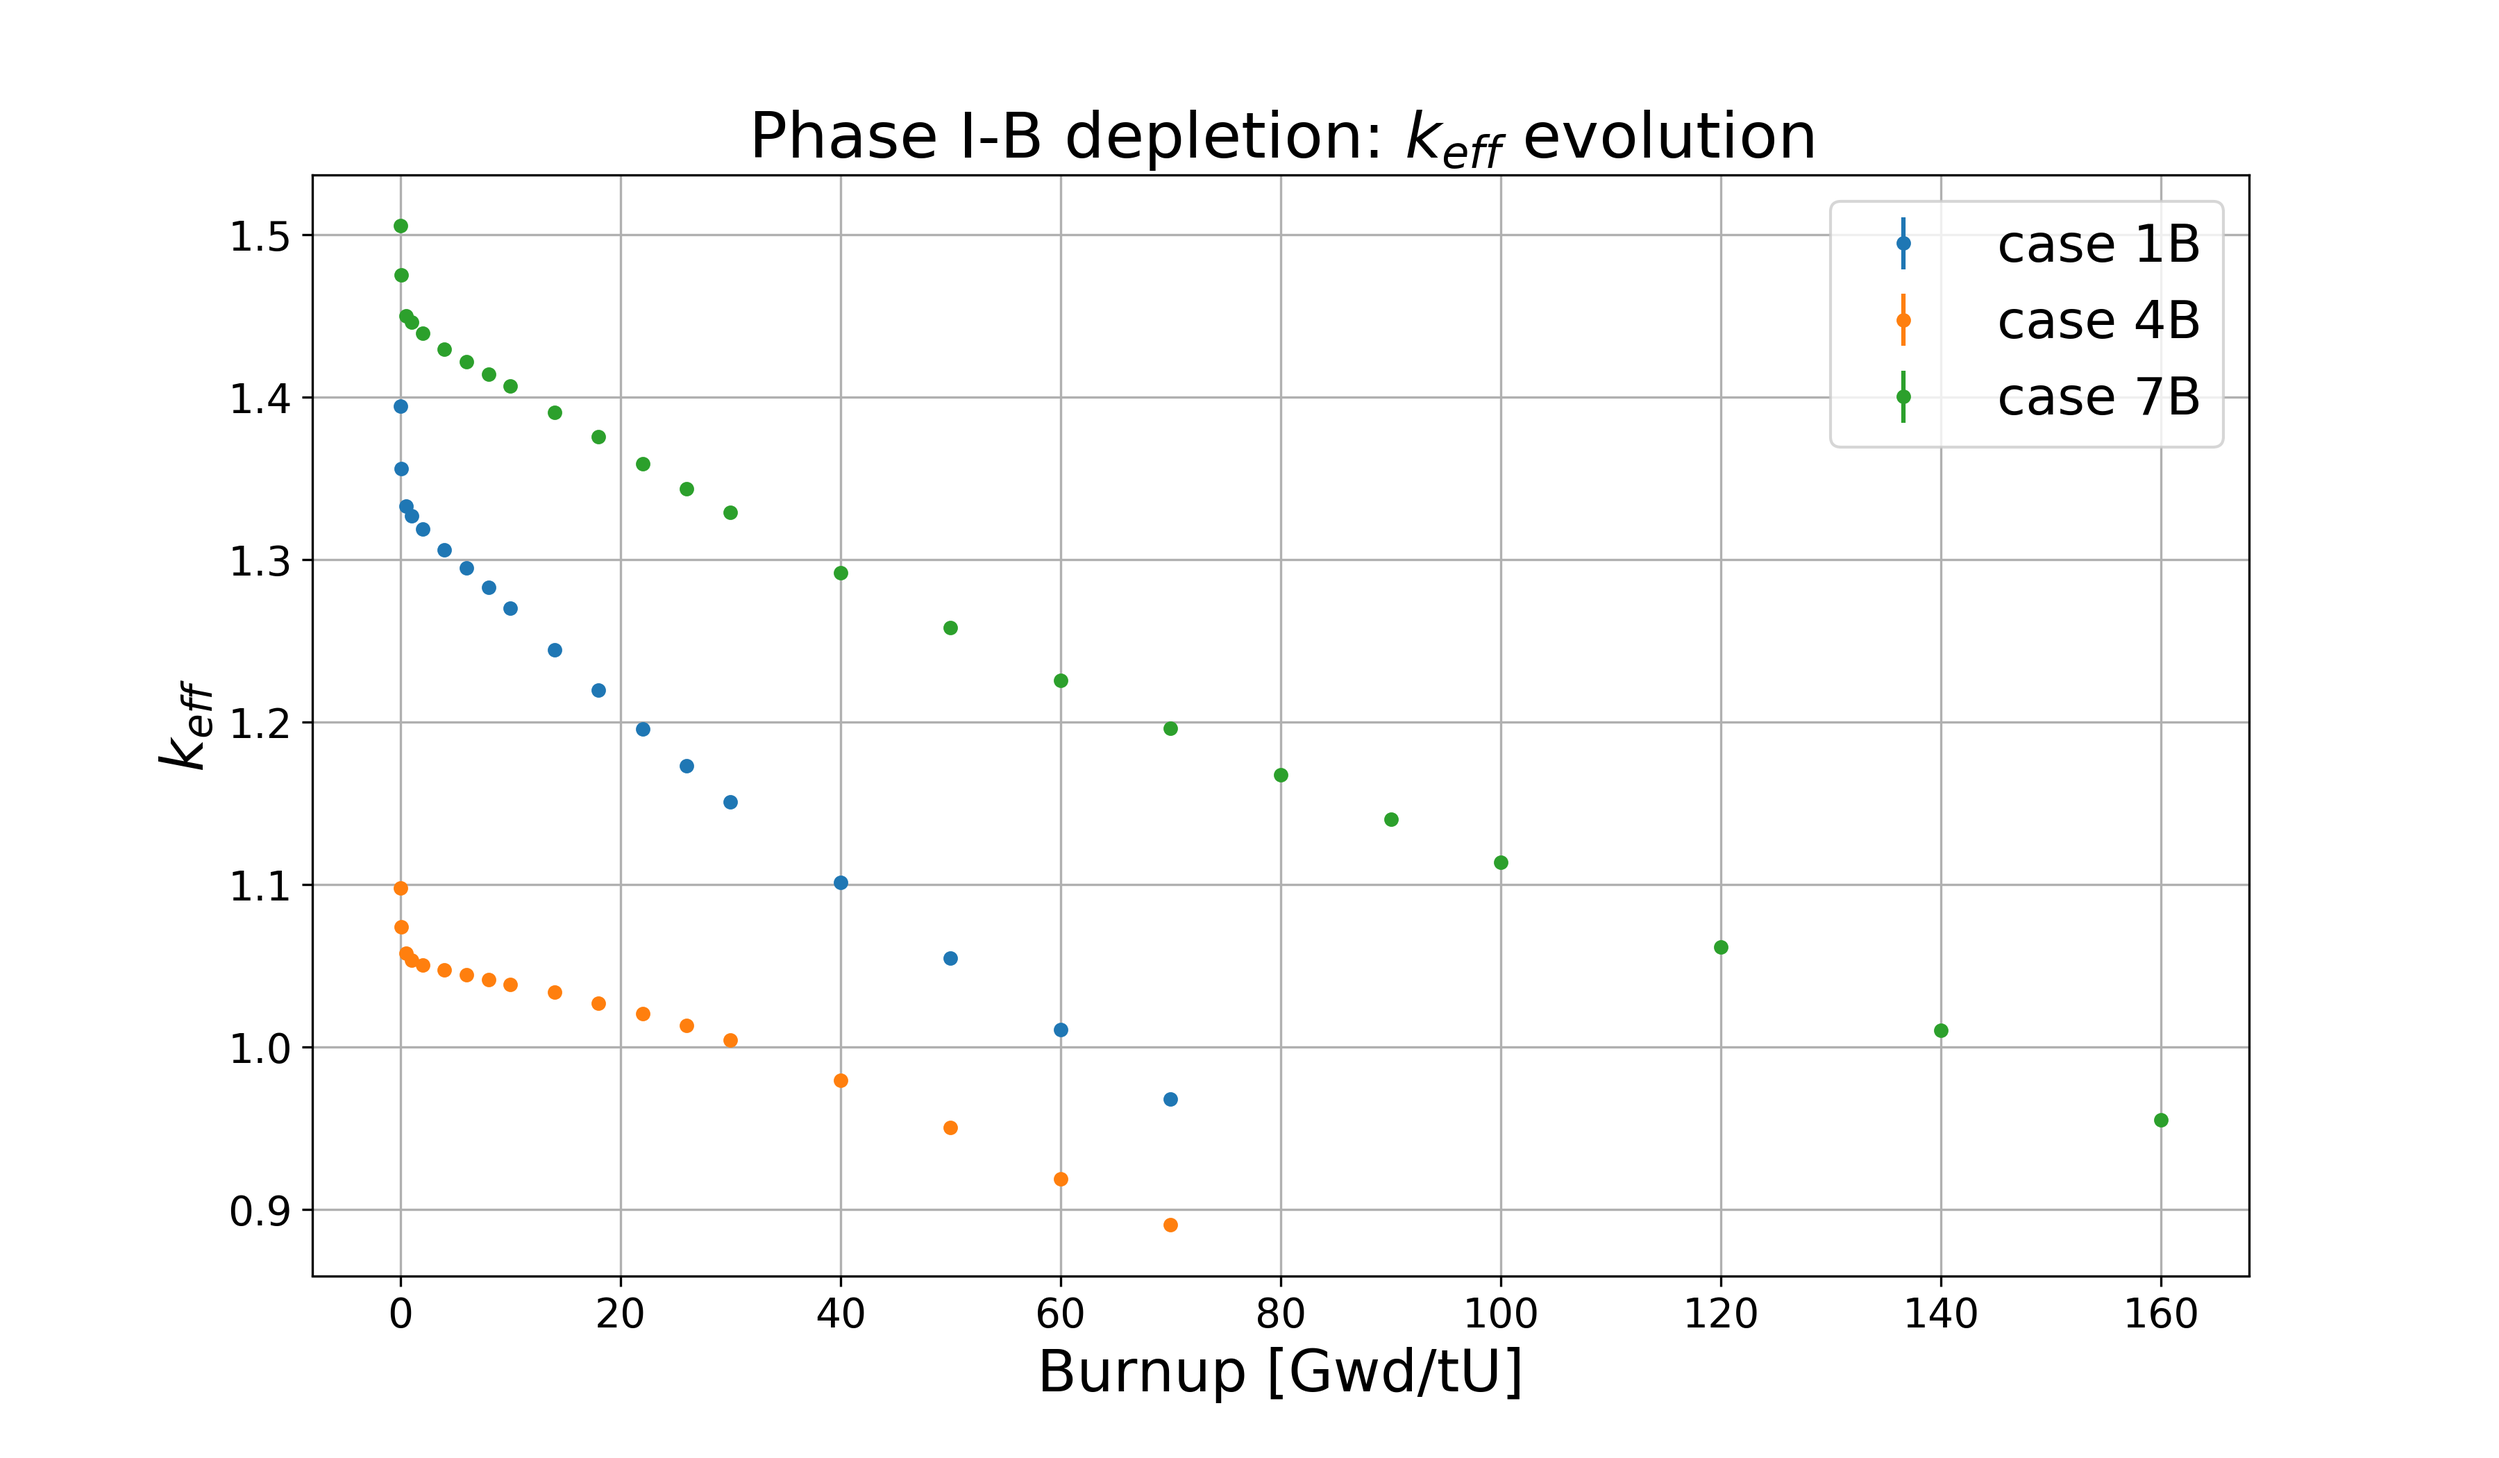
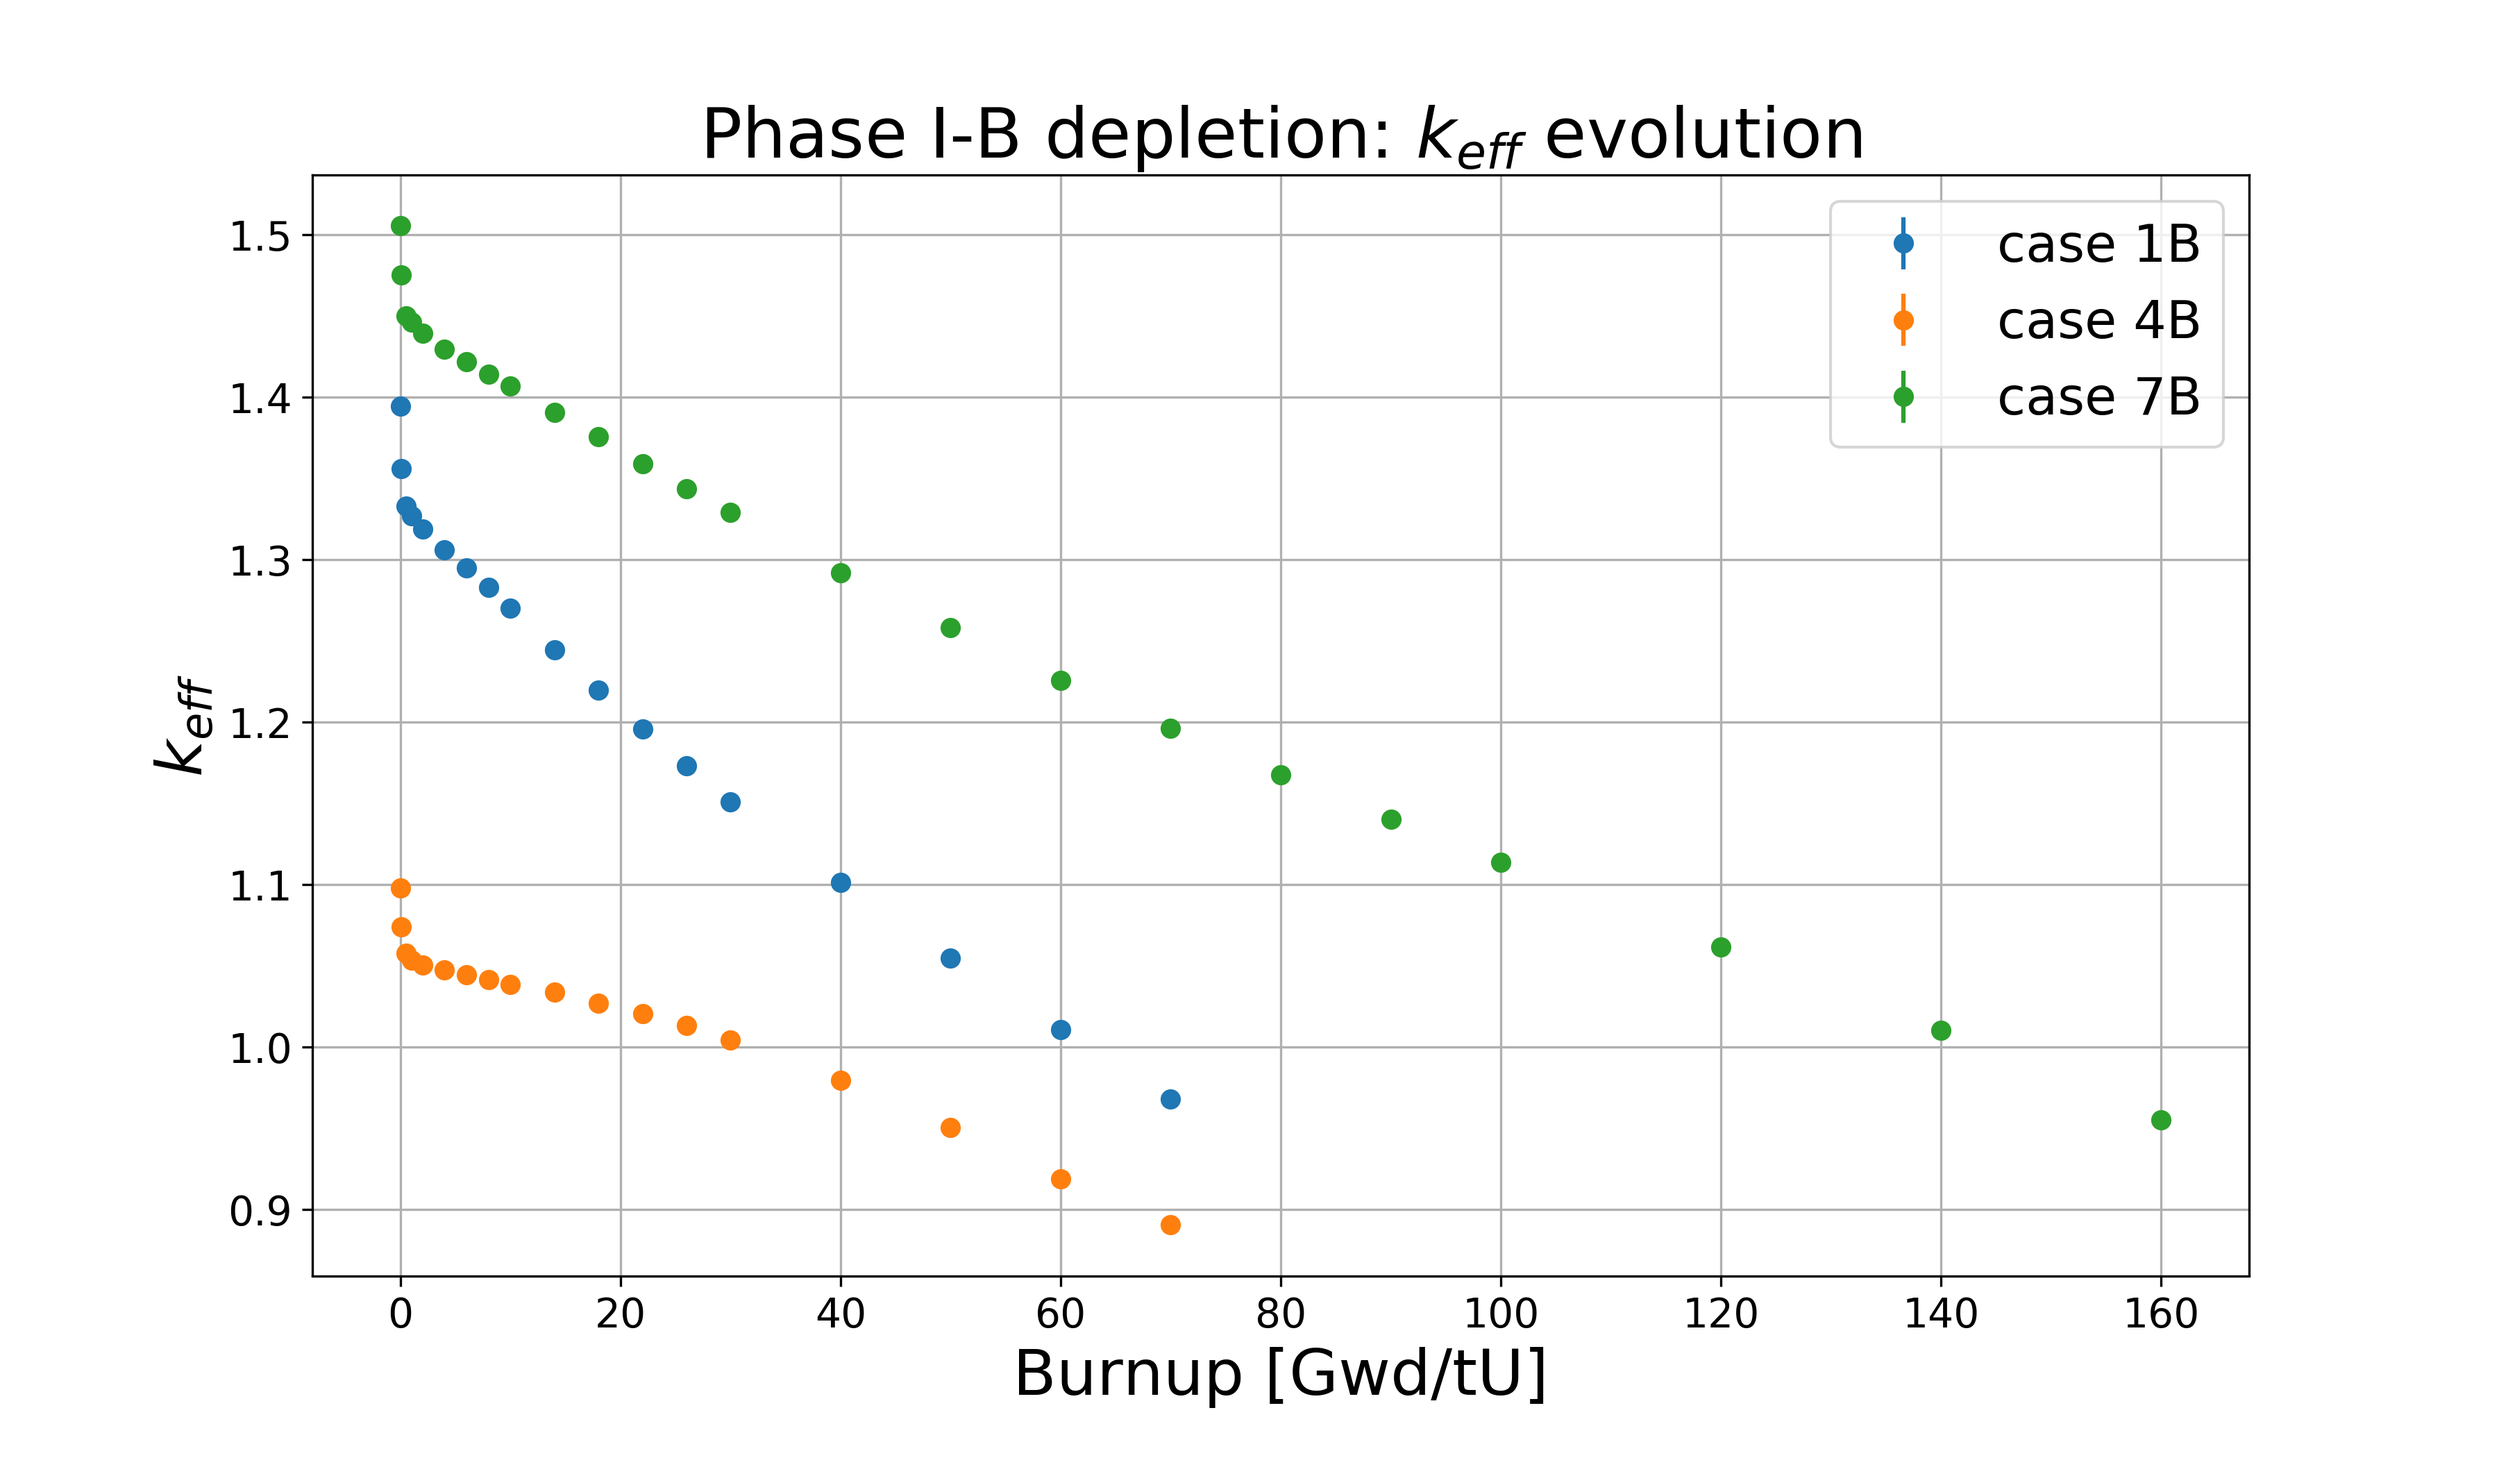
updates

diff --git a/docs/fhr-benchmark.tex b/docs/fhr-benchmark.tex
@@ -390,15 +390,17 @@ Figure \ref{fig:phase1a-c} shows the fission source distribution by
 one-fifth fuel stripe for Cases 1A and 3A. 
 \begin{figure}[]
     \centering
-    \includegraphics[width=0.49\linewidth]{p1a_c1a_c.png} 
-    \includegraphics[width=0.48\linewidth]{p1a_c3a_c.png} 
-    \caption{Fission Source Distribution per one-fifth fuel stripe for \acrlong{FHR} 
-    Benchmark's Phase I-A Case 1A (left) and Case 3A (right).}
+    \includegraphics[width=0.52\linewidth]{p1a_c1a_c.png} 
+    \includegraphics[width=0.52\linewidth]{p1a_c3a_c.png} 
+    \includegraphics[width=0.52\linewidth]{p1a_6a_c.png} 
+    \caption{Fission Source Distribution per one-fifth fuel stripe for 
+    \acrlong{FHR} Benchmark's Phase I-A Case 1A (top), Case 3A (middle), 
+    and Case 6A (bottom).}
     \label{fig:phase1a-c}
 \end{figure}
 Case 4AR has a similar fission source distribution as Case 3A since both 
 cases have control rod insertion. 
-All other cases have similar fission source distributions to Case 1A. 
+All other cases have similar fission source distribution shape to Case 1A. 
 For Case 1A, intuitively, I would assume that the highest fission source would 
 occur in the center of the diamond fuel segment; however, the opposite is true. 
 Power peaking occurs on exterior stripes and is minimum on the interior stripes.
@@ -409,10 +411,12 @@ The lowest power is found in the interiors of the lattice tri-sections.
 This fission source distribution is caused by diminished resonance escape 
 probability in the interior due to the higher relative fuel-to-carbon volume 
 ratio. 
-Cases 6A and 7A demonstrate a further diminished fission source in the interior 
-stripes due to the higher fuel-to-carbon ratio.
 For Case 3A with an inserted control rod, the fission source is lower in 
 the one-fifth stripes closer to the control rod.  
+Cases 6A and 7A demonstrate a further diminished fission source in the interior 
+stripes due to the higher fuel-to-carbon ratio.
+This is seen in Figure \ref{fig:phase1a-c} in which case 1A and 6A have similar 
+fission distribution shapes, but case 6A's has a bigger fission source value range. 
 
 Figure \ref{fig:phase1a-d} shows the average neutron flux in the fuel assembly in 
 three coarse energy groups. 
@@ -429,9 +433,9 @@ Figure \ref{fig:phase1a-e} shows the neutron flux distribution in a 100 $\times$
 100 mesh for Cases 1A, 3A, and 6A for three coarse energy groups. 
 \begin{figure}[]
     \centering
-    \includegraphics[width=0.9\linewidth]{phase1a-e-c1a.png} 
-    \includegraphics[width=0.9\linewidth]{phase1a-e-c3a.png} 
-    \includegraphics[width=0.9\linewidth]{phase1a-e-c6a.png} 
+    \includegraphics[width=\linewidth]{phase1a-e-c1a.png} 
+    \includegraphics[width=\linewidth]{phase1a-e-c3a.png} 
+    \includegraphics[width=\linewidth]{phase1a-e-c6a.png} 
     \caption{\acrlong{FHR} Benchmark's Neutron flux distribution in 100 
     $\times$ 100 mesh for three coarse energy groups: Case 1A (above), Case 3A 
     (middle), Case 6A (below). Energy group 1: $E > 0.1$ MeV, Energy group 2: 
@@ -451,8 +455,8 @@ fast-flux peaking and thermal flux dip in the fuel stripe area.
 Figure \ref{fig:phase1a-f} shows the neutron spectrum for Cases 1A and 6A. 
 \begin{figure}[]
     \centering
-    \includegraphics[width=0.49\linewidth]{p1a_c1a_f.png} 
-    \includegraphics[width=0.49\linewidth]{p1a_c6a_f.png} 
+    \includegraphics[width=0.75\linewidth]{p1a_c1a_f.png} 
+    \includegraphics[width=0.75\linewidth]{p1a_c6a_f.png} 
     \caption{Neutron spectrum for \acrlong{FHR} Benchmark's Phase I-A Case 1A 
     (left) and Case 6A (right).}
     \label{fig:phase1a-f}
@@ -460,7 +464,7 @@ Figure \ref{fig:phase1a-f} shows the neutron spectrum for Cases 1A and 6A.
 Case 7A has a similar neutron spectrum as Case 6A since both cases have 
 higher fuel content. 
 All other cases have a similar neutron spectrum to Case 1A.
-The neutron spectrum is faster for Case 6A and Case 7A due to more heavy metal 
+The neutron spectrum is faster for Cases 6A and 7A due to more heavy metal 
 loading and higher enrichment, respectively.  
 
 \subsection{Results: Phase I-B}
@@ -468,7 +472,7 @@ Figure \ref{fig:phase1b_keff} shows the $k_{eff}$ evolution during depletion
 for Cases 1B, 4B, and 7B.
 \begin{figure}[]
     \centering
-    \includegraphics[width=\linewidth]{phase1b_keff.png} 
+    \includegraphics[width=1.1\linewidth]{phase1b_keff.png} 
     \caption{\acrlong{FHR} Benchmark's Phase I-B depletion $k_{eff}$ evolution 
     for Cases 1B, 4B, and 7B. Case 1B is the reference case, Case 4B is the 
     discrete \gls{BP} case, and Case 7B is the 19.75$\%$ enrichment case. 

diff --git a/docs/lit-review.tex b/docs/lit-review.tex
@@ -142,7 +142,7 @@ research.
     \caption{\acrlong{PIRT} identified \acrlong{AHTR} physical phenomena requiring 
     further research \cite{rahnema_phenomena_2019}.}
 	\label{tab:phenomena}
-    \small
+    \footnotesize
     \begin{tabular}{l|l}
     \hline
     \textbf{Category} & \textbf{Phenomena} \\ \hline
@@ -502,7 +502,7 @@ criteria.
                                   \item Keep selected individuals from previous generation
                                  \end{enumerate}};
                 \node (4) [lbblock, below of=3, yshift=-1.3cm] {\textbf{Evaluate new population}};
-                \node (5) [lbblock, below of=4] {\textbf{Is termination criteria satisfied?}};
+                \node (5) [lbblock, below of=4] {\textbf{Is termination \\ criteria satisfied?}};
                 \node (6) [lbblock, below of=5] {\textbf{Best solution is returned!}};
                 \draw [arrow] (1) -- (2);
                 \draw [arrow] (2) -- (3);

diff --git a/docs/intro.tex b/docs/intro.tex
@@ -49,7 +49,7 @@ Table \ref{tab:goals-gen4} summarizes the goals in each area.
     \caption{Goals of Generation IV Nuclear Systems \cite{gif_technology_2002,
     behar_technology_2014}}
 	\label{tab:goals-gen4}
-    \small
+    \footnotesize
     \begin{tabular}{l|l}
     \hline
                                \textbf{Area} & \textbf{Goals} \\ \hline
